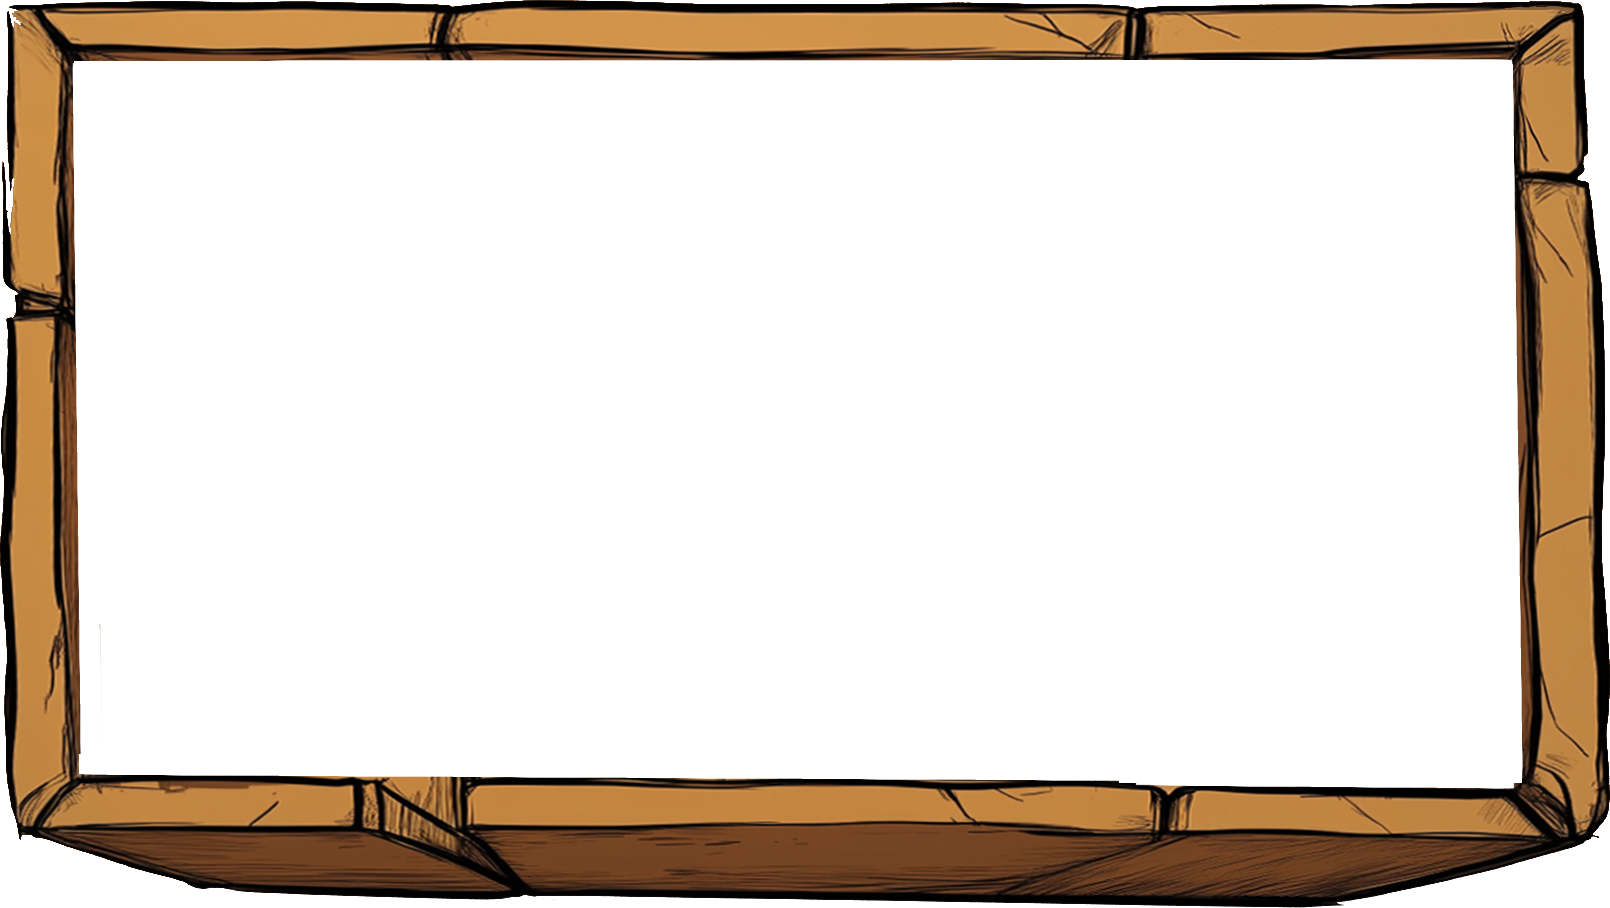
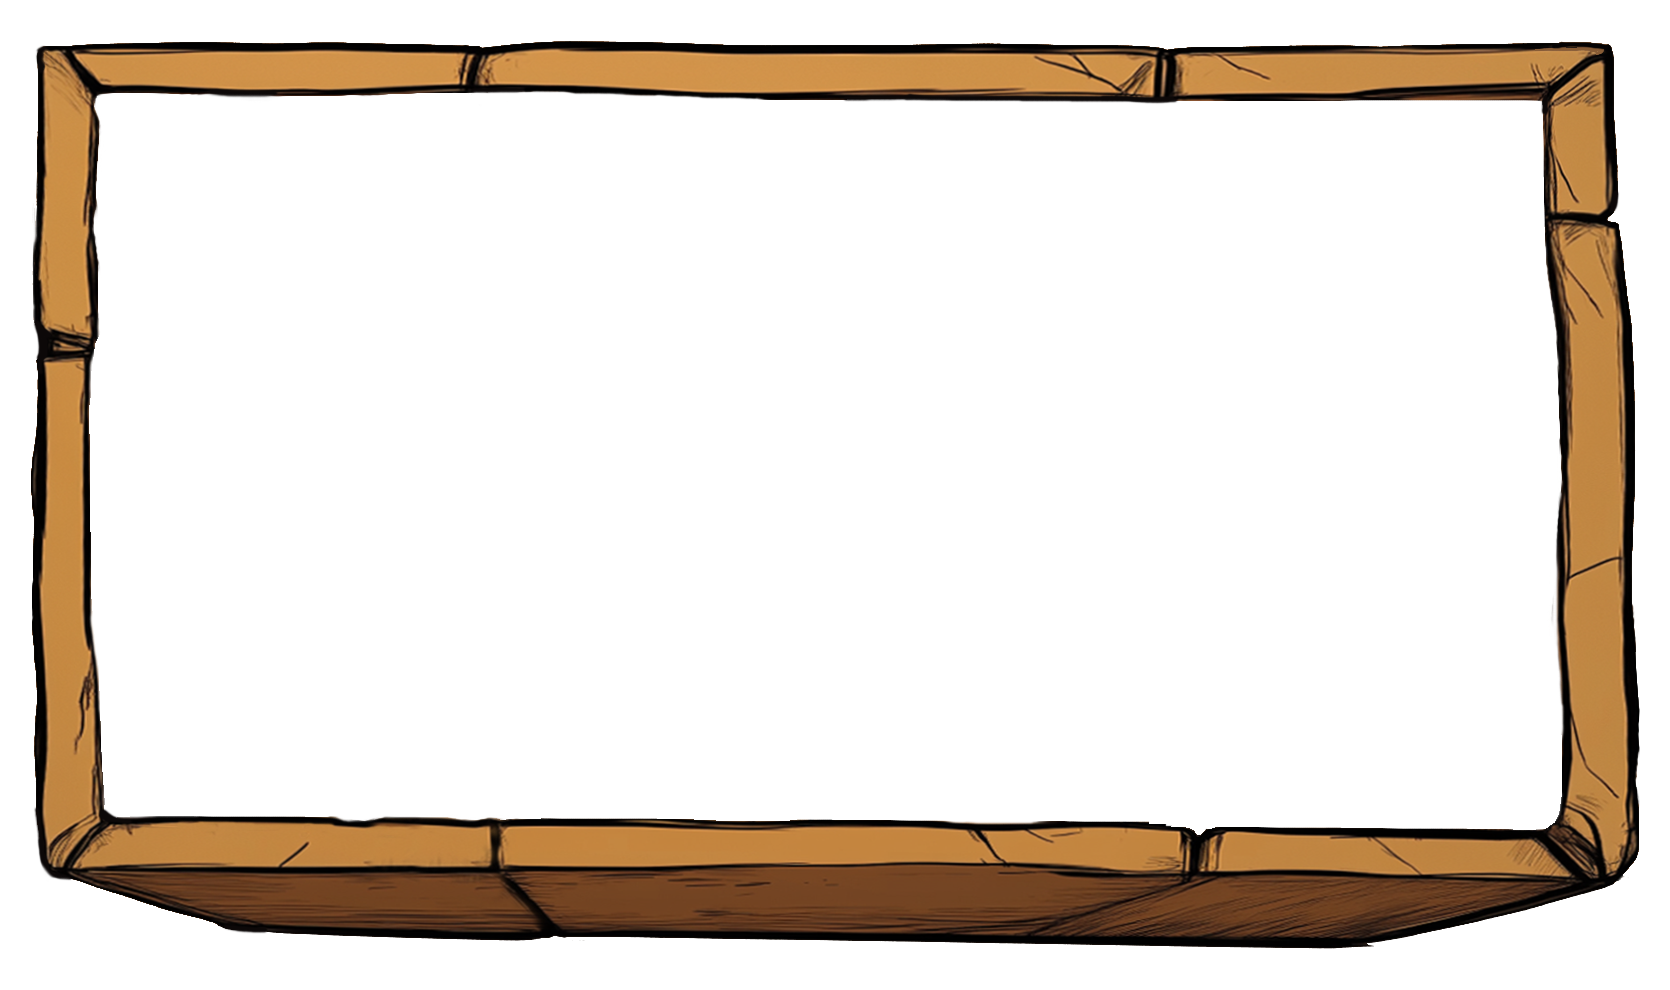
UI enhancements

Changed region(s): [[0.0, 0.0, 1.0, 1.0]]

diff --git a/src/constants/constants.jsx b/src/constants/constants.jsx
@@ -2,7 +2,7 @@ import { iconMap } from "../icons/wiresIcons";
 
 export const DEFAULT_APP_SETTINGS = {
   skin: "STANDARD",
-  backgroundImg: "images/background_standard.jpg",
+  backgroundImg: "images/background_standard.png",
   actionWhenLoadingIfSolved: true,
   wiresLength: 6,
   wiresType: "COLORED",
